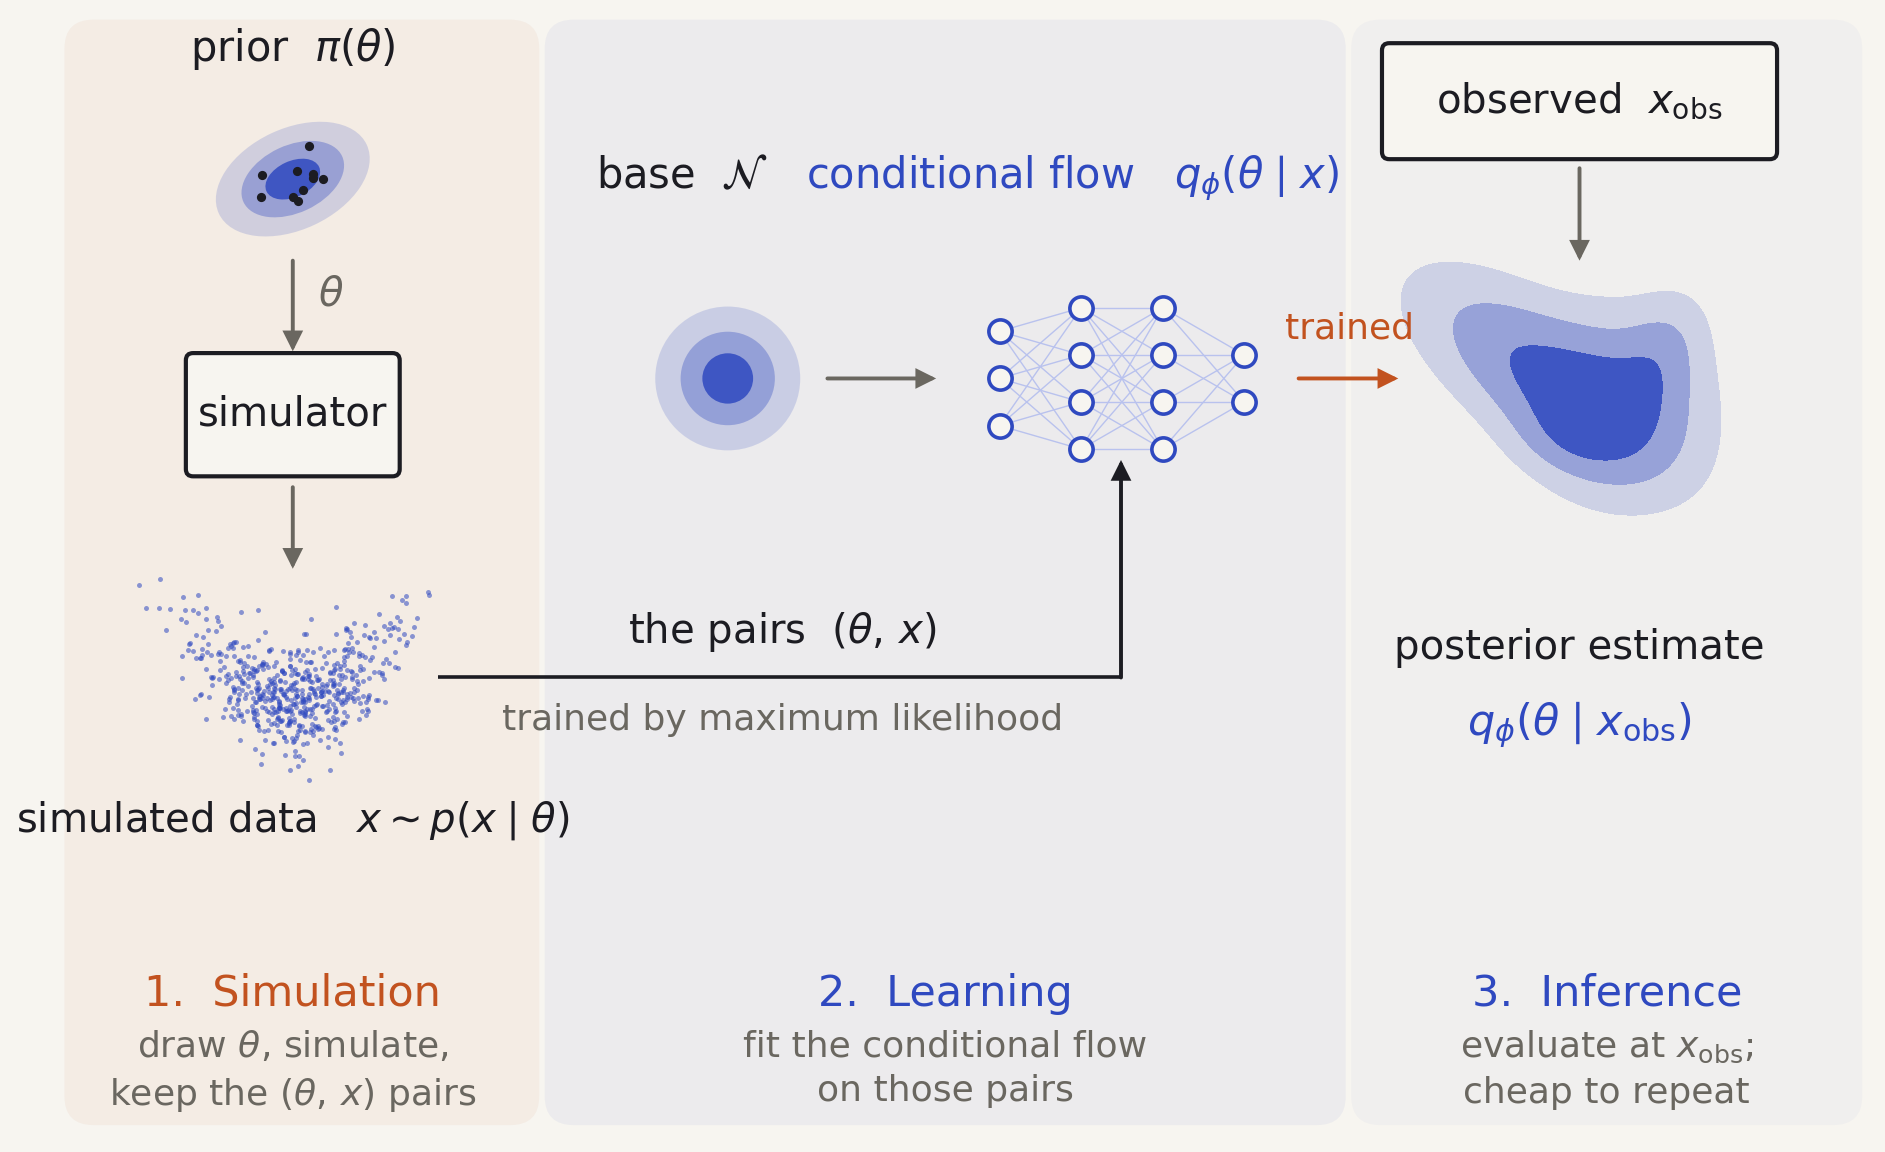
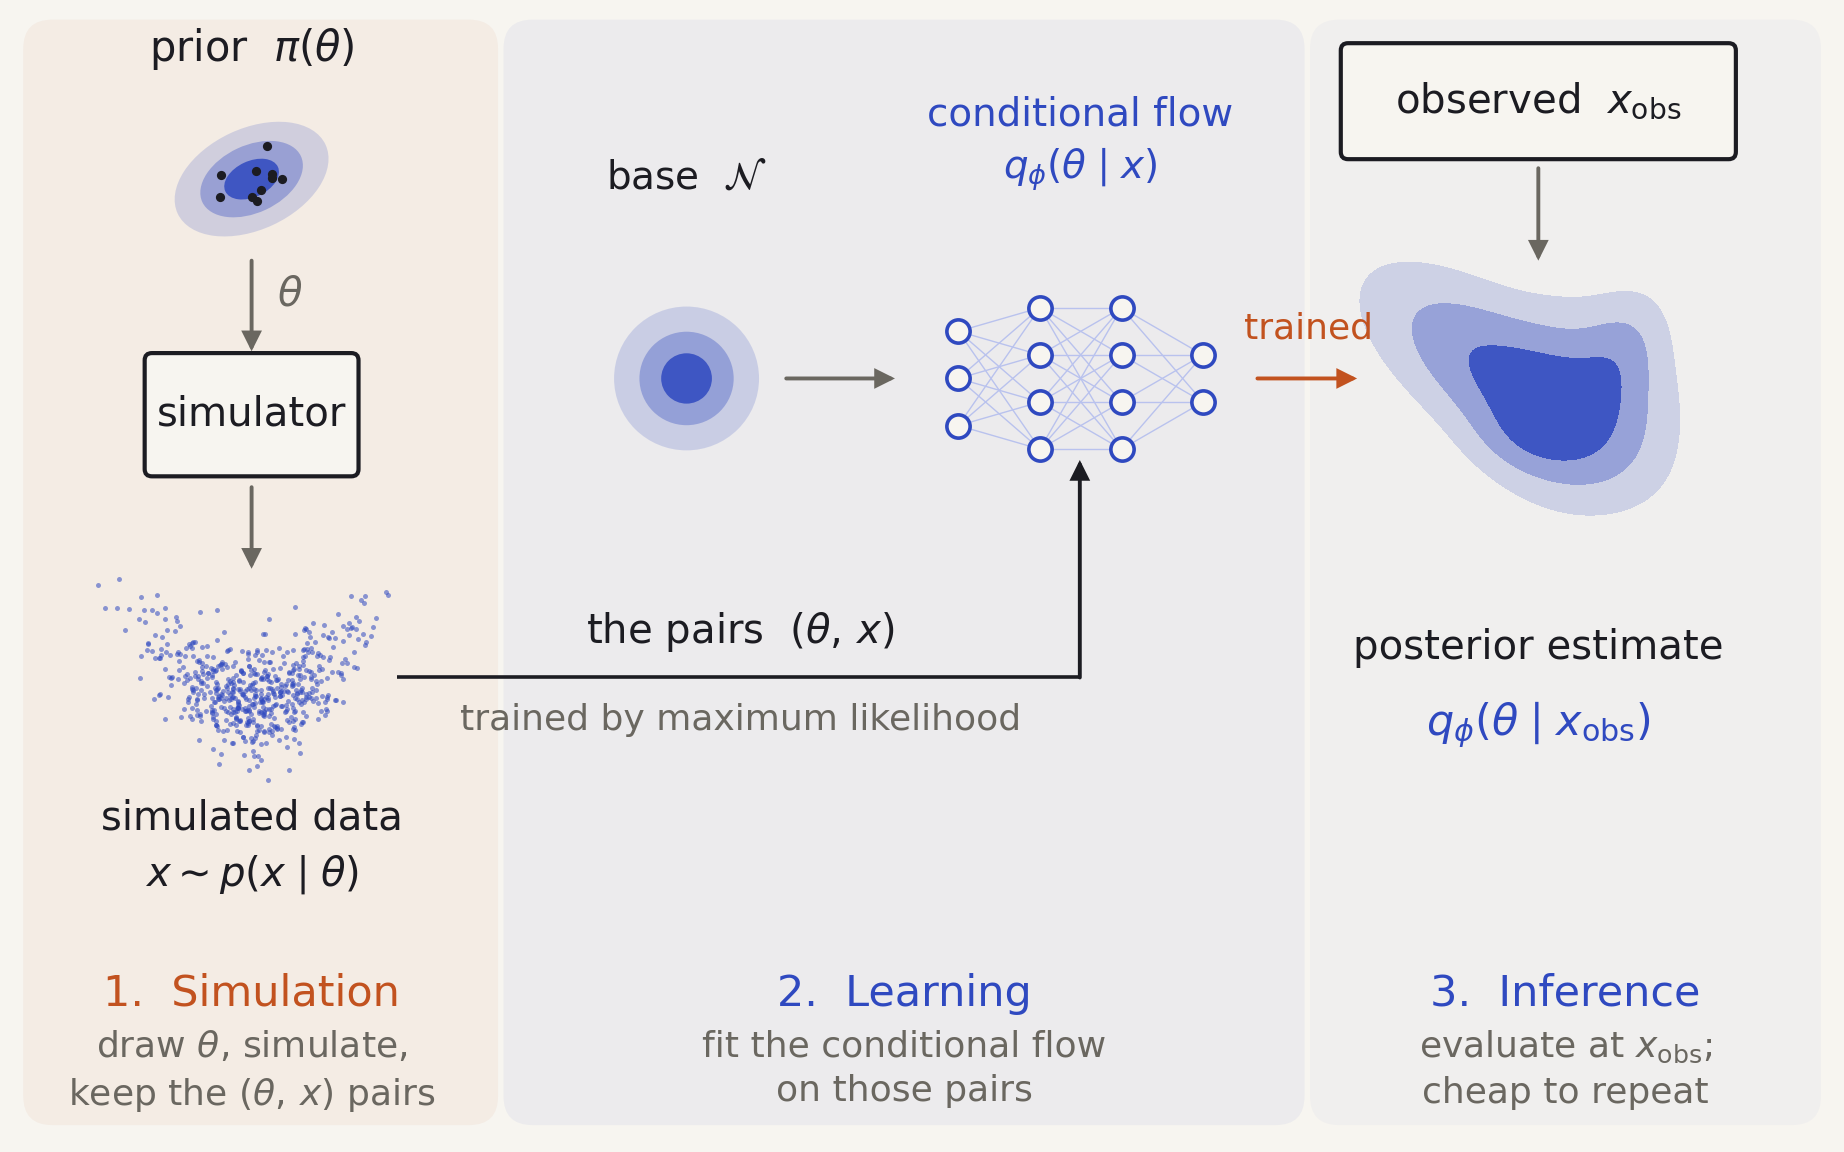
refine(PhD_Defense_2026): two crowded labels on frame 36 stack instead
"base N" and "conditional flow q(theta|x)" sat 20px apart on one baseline and
read as a single phrase rather than as labels for two different objects. The
flow label now stacks its name over its symbol: shorter, so the gap opens to
~90px, and visibly one label belonging to the network. Both drop 15 -> 14pt,
and "base N" returns to x=37, back over the blob it names.

"simulated data x ~ p(x | theta)" was 275px wide against a 237px panel and hung
off both ends. Same treatment — the name above, the expression below.

Ink margins are even to the pixel now (L23 R23) and the figure sits 0.5px off
the slide's centre. Frame 36 holds at 692 of 720px.

Claude-Session: https://claude.ai/code/session_01CmWUCjty7caDD9onTW9WwD

diff --git a/tools/make-sbi-pipeline.py b/tools/make-sbi-pipeline.py
@@ -122,12 +122,12 @@ def draw(upto):
     py = 13.5 + 1.5 * (xs[:, 1] + 0.7 * xs[:, 0] ** 2 - 0.9)
     keep = (px > 4) & (px < 22) & (py > 7.5) & (py < 19)
     ax.scatter(px[keep], py[keep], s=3.2, color=ACCENT, alpha=0.55, linewidths=0)
-    ax.text(13, 5.0, r"simulated data   $x \sim p(x \mid \theta)$",
-            ha="center", fontsize=14.5, color=INK)
+    ax.text(13, 6.8, "simulated data\n" r"$x \sim p(x \mid \theta)$",
+            ha="center", va="top", fontsize=14.5, color=INK, linespacing=1.45)
 
     # ========================================================== 2. learning
     if upto >= 2:
-        ax.text(34.5, 40.5, r"base  $\mathcal{N}$", ha="center", fontsize=15,
+        ax.text(37, 40.5, r"base  $\mathcal{N}$", ha="center", fontsize=14,
                 color=INK)
         for w, a in ((8.0, 0.18), (5.2, 0.34), (2.8, 0.85)):
             ax.add_patch(Ellipse((37, 30), w, w * 0.62 * 1.6, facecolor=ACCENT,
@@ -145,8 +145,8 @@ def draw(upto):
             ax.scatter([cx] * k, ys, s=70, facecolor=PAPER, edgecolor=ACCENT,
                        lw=1.3, zorder=3)
             prev = (cx, ys)
-        ax.text(56.0, 40.5, r"conditional flow   $q_\phi(\theta \mid x)$",
-                ha="center", fontsize=15, color=ACCENT)
+        ax.text(58.7, 45.6, "conditional flow\n" r"$q_\phi(\theta \mid x)$",
+                ha="center", va="top", fontsize=14, color=ACCENT, linespacing=1.35)
 
         ax.plot([21, 58.7], [13.5, 13.5], color=INK, lw=1.3, solid_capstyle="butt")
         arrow(58.7, 13.5, 58.7, 25.5, color=INK)
